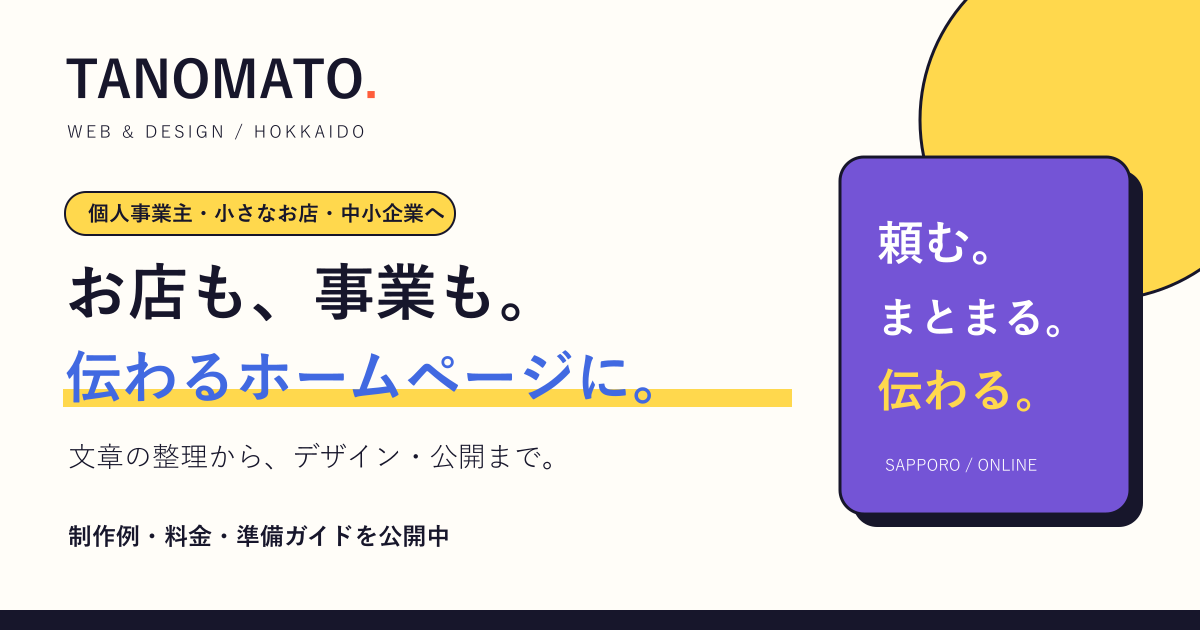
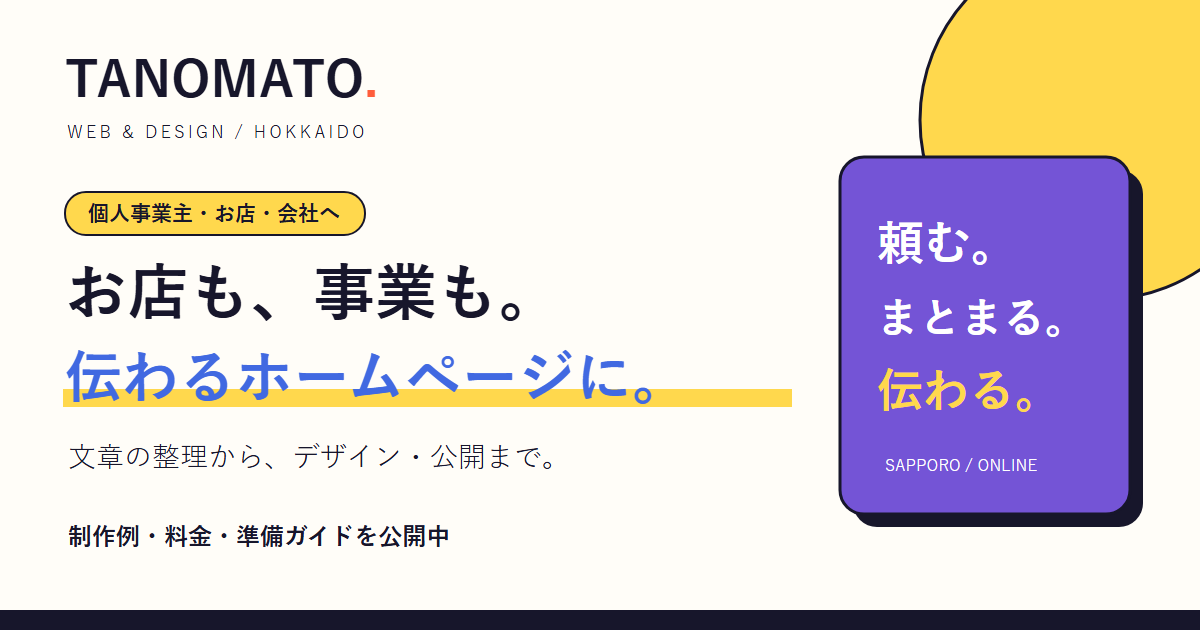
「小さなお店」「小さな事業」の言い方をやめる
トップ・わたしたちについて・全ページのリンク共有画像（ogp）の説明文を
「お店と会社」「個人事業主・お店・会社」に変える。問い合わせの業種の
受け付け値も「企業・個人事業」にそろえる（企業向けページのリンクと一致）。

diff --git a/index.html b/index.html
@@ -13,7 +13,7 @@
 <link rel="canonical" href="https://tanomato.com/">
 <meta property="og:type" content="website"><meta property="og:site_name" content="TANOMATO"><meta property="og:locale" content="ja_JP">
 <meta property="og:title" content="個人事業主と中小企業専門のWeb制作｜TANOMATO（たのまと）"><meta property="og:description" content="TANOMATO（たのまと・タノマト）。札幌発・全国対応、個人事業主と中小企業専門のWeb制作。先着5件の価格は1ページ29,800円、6件目からは49,800円。公開後の月額サポートも選べます。"><meta property="og:url" content="https://tanomato.com/">
-<meta property="og:image" content="https://tanomato.com/assets/ogp.png"><meta property="og:image:width" content="1200"><meta property="og:image:height" content="630"><meta property="og:image:alt" content="TANOMATO 個人事業主・小さなお店のホームページ制作"><meta name="twitter:card" content="summary_large_image">
+<meta property="og:image" content="https://tanomato.com/assets/ogp.png"><meta property="og:image:width" content="1200"><meta property="og:image:height" content="630"><meta property="og:image:alt" content="TANOMATO 個人事業主・お店・会社のホームページ制作"><meta name="twitter:card" content="summary_large_image">
 <link rel="stylesheet" href="consent.css"><link rel="stylesheet" href="motion.css"><script>(function(d){try{if(matchMedia("(prefers-reduced-motion: reduce)").matches)return;var c=d.documentElement.classList,s=sessionStorage,t=+s.getItem("tanomato.veil");if(t&&Date.now()-t<4000)c.add("is-arriving");else if(!s.getItem("tanomato.booted"))c.add("is-booting")}catch(e){}})(document)</script><script type="application/ld+json">{"@context":"https://schema.org","@graph":[{"@type":"Organization","@id":"https://tanomato.com/#organization","name":"TANOMATO","alternateName":["たのまと","タノマト","TANOMATO（たのまと）"],"url":"https://tanomato.com/","email":"contact@tanomato.com","image":"https://tanomato.com/assets/ogp.png","description":"札幌を拠点に、個人事業主と中小企業のホームページを制作しています。","areaServed":{"@type":"Country","name":"日本"}},{"@type":"WebSite","@id":"https://tanomato.com/#website","name":"TANOMATO（たのまと）","alternateName":["たのまと","タノマト","TANOMATO","たのまと ホームページ制作"],"url":"https://tanomato.com/","inLanguage":"ja","publisher":{"@id":"https://tanomato.com/#organization"}}]}</script>
 </head>
 <body><a class="skip" href="#main">本文へ</a>
@@ -25,10 +25,10 @@
 </header>
 <main id="main">
 <section class="studio-hero wrap growth-hero">
-<div><p class="hero-chip">札幌発・全国オンライン対応</p><p class="eyebrow">小さな事業のためのホームページ制作</p>
+<div><p class="hero-chip">札幌発・全国オンライン対応</p><p class="eyebrow">お店と会社のためのホームページ制作</p>
 <h1>お店も、事業も<br><em>伝わるホームページに</em></h1>
 <p class="fine">TANOMATO（たのまと・タノマト）</p>
-<p class="lead">個人事業主・小さなお店・中小企業のために。<br>文章の整理からデザイン、公開までまとめてお手伝いします。</p>
+<p class="lead">個人事業主・お店・会社のために。<br>文章の整理からデザイン、公開までまとめてお手伝いします。</p>
 <p class="hero-price"><strong>店舗紹介サイト 29,800円<small>（税込）</small></strong><span>先着5件の価格／6件目からは49,800円（税込）</span></p>
 <p class="hero-scope">載せる話題5つ・写真5枚・修正2回・公開設定まで含みます。外部サービス費は別途実費です。</p>
 <div class="actions"><a class="button" href="#featured-works" data-track="works_click">制作例と料金を見る <span aria-hidden="true">↘</span></a><a class="button outline" href="contact.html" data-track="contact_click">無料で相談する</a></div>

diff --git a/about.html b/about.html
@@ -13,7 +13,7 @@
 <link rel="canonical" href="https://tanomato.com/about.html">
 <meta property="og:type" content="website"><meta property="og:site_name" content="TANOMATO"><meta property="og:locale" content="ja_JP">
 <meta property="og:title" content="TANOMATOについて｜TANOMATO"><meta property="og:description" content="TANOMATOがWeb制作を行う理由、お客さまへの約束、料金と制作範囲、代表者とAIによる制作体制をご案内します。"><meta property="og:url" content="https://tanomato.com/about.html">
-<meta property="og:image" content="https://tanomato.com/assets/ogp.png"><meta property="og:image:width" content="1200"><meta property="og:image:height" content="630"><meta property="og:image:alt" content="TANOMATO 個人事業主・小さなお店のホームページ制作"><meta name="twitter:card" content="summary_large_image">
+<meta property="og:image" content="https://tanomato.com/assets/ogp.png"><meta property="og:image:width" content="1200"><meta property="og:image:height" content="630"><meta property="og:image:alt" content="TANOMATO 個人事業主・お店・会社のホームページ制作"><meta name="twitter:card" content="summary_large_image">
 <link rel="stylesheet" href="consent.css"><link rel="stylesheet" href="motion.css"><script>(function(d){try{if(matchMedia("(prefers-reduced-motion: reduce)").matches)return;var c=d.documentElement.classList,s=sessionStorage,t=+s.getItem("tanomato.veil");if(t&&Date.now()-t<4000)c.add("is-arriving");else if(!s.getItem("tanomato.booted"))c.add("is-booting")}catch(e){}})(document)</script></head>
 <body><a class="skip" href="#main">本文へ</a>
 <header class="site-header"><a class="brand" href="index.html"><span>TANOMATO<span class="brand-dot">.</span></span><small>WEB &amp; DESIGN / HOKKAIDO</small></a>
@@ -26,7 +26,7 @@
 <section class="page-head wrap">
 <p class="eyebrow">ABOUT TANOMATO</p>
 <h1>頼みを、まとめる</h1>
-<p class="lead">札幌を拠点に、全国オンラインで対応する、小さな事業のためのWeb制作。</p>
+<p class="lead">札幌を拠点に、全国オンラインで対応する、お店と会社のためのWeb制作。</p>
 </section>
 <section class="wrap editorial">
 <div class="section-heading">

diff --git a/case-piano.html b/case-piano.html
@@ -6,7 +6,7 @@
 <link rel="canonical" href="https://tanomato.com/case-piano.html">
 <meta property="og:type" content="website"><meta property="og:site_name" content="TANOMATO"><meta property="og:locale" content="ja_JP">
 <meta property="og:title" content="ピアノ教室の案内の制作解説｜TANOMATO"><meta property="og:description" content="通う前に知りたい時間割・月謝・体験の流れを、1ページで。ピアノ教室の架空の制作例の工夫と、習い事の教室サイトを依頼する際の費用をご紹介します。"><meta property="og:url" content="https://tanomato.com/case-piano.html">
-<meta property="og:image" content="https://tanomato.com/assets/ogp.png"><meta property="og:image:width" content="1200"><meta property="og:image:height" content="630"><meta property="og:image:alt" content="TANOMATO 個人事業主・小さなお店のホームページ制作"><meta name="twitter:card" content="summary_large_image">
+<meta property="og:image" content="https://tanomato.com/assets/ogp.png"><meta property="og:image:width" content="1200"><meta property="og:image:height" content="630"><meta property="og:image:alt" content="TANOMATO 個人事業主・お店・会社のホームページ制作"><meta name="twitter:card" content="summary_large_image">
 <link rel="stylesheet" href="consent.css"><link rel="stylesheet" href="motion.css"><script>(function(d){try{if(matchMedia("(prefers-reduced-motion: reduce)").matches)return;var c=d.documentElement.classList,s=sessionStorage,t=+s.getItem("tanomato.veil");if(t&&Date.now()-t<4000)c.add("is-arriving");else if(!s.getItem("tanomato.booted"))c.add("is-booting")}catch(e){}})(document)</script></head>
 <body class="case-piano-page"><a class="skip" href="#main">本文へ</a>
 <header class="site-header"><a class="brand" href="index.html"><span>TANOMATO<span class="brand-dot">.</span></span><small>WEB &amp; DESIGN / HOKKAIDO</small></a>

diff --git a/case-event.html b/case-event.html
@@ -6,7 +6,7 @@
 <link rel="canonical" href="https://tanomato.com/case-event.html">
 <meta property="og:type" content="website"><meta property="og:site_name" content="TANOMATO"><meta property="og:locale" content="ja_JP">
 <meta property="og:title" content="相談会・見学会の案内の制作解説｜TANOMATO"><meta property="og:description" content="内容、対象、日時、参加方法を順番に理解できるように。構成の工夫と、同様の制作を依頼する際の費用・条件をご紹介します。"><meta property="og:url" content="https://tanomato.com/case-event.html">
-<meta property="og:image" content="https://tanomato.com/assets/ogp.png"><meta property="og:image:width" content="1200"><meta property="og:image:height" content="630"><meta property="og:image:alt" content="TANOMATO 個人事業主・小さなお店のホームページ制作"><meta name="twitter:card" content="summary_large_image">
+<meta property="og:image" content="https://tanomato.com/assets/ogp.png"><meta property="og:image:width" content="1200"><meta property="og:image:height" content="630"><meta property="og:image:alt" content="TANOMATO 個人事業主・お店・会社のホームページ制作"><meta name="twitter:card" content="summary_large_image">
 <link rel="stylesheet" href="consent.css"><link rel="stylesheet" href="motion.css"><script>(function(d){try{if(matchMedia("(prefers-reduced-motion: reduce)").matches)return;var c=d.documentElement.classList,s=sessionStorage,t=+s.getItem("tanomato.veil");if(t&&Date.now()-t<4000)c.add("is-arriving");else if(!s.getItem("tanomato.booted"))c.add("is-booting")}catch(e){}})(document)</script></head>
 <body class="case-event-page"><a class="skip" href="#main">本文へ</a>
 <header class="site-header"><a class="brand" href="index.html"><span>TANOMATO<span class="brand-dot">.</span></span><small>WEB &amp; DESIGN / HOKKAIDO</small></a>

diff --git a/case-company.html b/case-company.html
@@ -6,7 +6,7 @@
 <link rel="canonical" href="https://tanomato.com/case-company.html">
 <meta property="og:type" content="website"><meta property="og:site_name" content="TANOMATO"><meta property="og:locale" content="ja_JP">
 <meta property="og:title" content="会社と事業の紹介の制作解説｜TANOMATO"><meta property="og:description" content="会社の全体像から、事業の詳細へ自然に進めるように。構成の工夫と、同様の制作を依頼する際の費用・条件をご紹介します。"><meta property="og:url" content="https://tanomato.com/case-company.html">
-<meta property="og:image" content="https://tanomato.com/assets/ogp.png"><meta property="og:image:width" content="1200"><meta property="og:image:height" content="630"><meta property="og:image:alt" content="TANOMATO 個人事業主・小さなお店のホームページ制作"><meta name="twitter:card" content="summary_large_image">
+<meta property="og:image" content="https://tanomato.com/assets/ogp.png"><meta property="og:image:width" content="1200"><meta property="og:image:height" content="630"><meta property="og:image:alt" content="TANOMATO 個人事業主・お店・会社のホームページ制作"><meta name="twitter:card" content="summary_large_image">
 <link rel="stylesheet" href="consent.css"><link rel="stylesheet" href="motion.css"><script>(function(d){try{if(matchMedia("(prefers-reduced-motion: reduce)").matches)return;var c=d.documentElement.classList,s=sessionStorage,t=+s.getItem("tanomato.veil");if(t&&Date.now()-t<4000)c.add("is-arriving");else if(!s.getItem("tanomato.booted"))c.add("is-booting")}catch(e){}})(document)</script></head>
 <body class="case-company-page"><a class="skip" href="#main">本文へ</a>
 <header class="site-header"><a class="brand" href="index.html"><span>TANOMATO<span class="brand-dot">.</span></span><small>WEB &amp; DESIGN / HOKKAIDO</small></a>

diff --git a/case-cafe.html b/case-cafe.html
@@ -6,7 +6,7 @@
 <link rel="canonical" href="https://tanomato.com/case-cafe.html">
 <meta property="og:type" content="website"><meta property="og:site_name" content="TANOMATO"><meta property="og:locale" content="ja_JP">
 <meta property="og:title" content="カフェの店舗案内の制作解説｜TANOMATO"><meta property="og:description" content="営業時間やメニューを、来店前に迷わず確認できるように。構成の工夫と、同様の制作を依頼する際の費用・条件をご紹介します。"><meta property="og:url" content="https://tanomato.com/case-cafe.html">
-<meta property="og:image" content="https://tanomato.com/assets/ogp.png"><meta property="og:image:width" content="1200"><meta property="og:image:height" content="630"><meta property="og:image:alt" content="TANOMATO 個人事業主・小さなお店のホームページ制作"><meta name="twitter:card" content="summary_large_image">
+<meta property="og:image" content="https://tanomato.com/assets/ogp.png"><meta property="og:image:width" content="1200"><meta property="og:image:height" content="630"><meta property="og:image:alt" content="TANOMATO 個人事業主・お店・会社のホームページ制作"><meta name="twitter:card" content="summary_large_image">
 <link rel="stylesheet" href="consent.css"><link rel="stylesheet" href="motion.css"><script>(function(d){try{if(matchMedia("(prefers-reduced-motion: reduce)").matches)return;var c=d.documentElement.classList,s=sessionStorage,t=+s.getItem("tanomato.veil");if(t&&Date.now()-t<4000)c.add("is-arriving");else if(!s.getItem("tanomato.booted"))c.add("is-booting")}catch(e){}})(document)</script></head>
 <body><a class="skip" href="#main">本文へ</a>
 <header class="site-header"><a class="brand" href="index.html"><span>TANOMATO<span class="brand-dot">.</span></span><small>WEB &amp; DESIGN / HOKKAIDO</small></a>

diff --git a/case-design.html b/case-design.html
@@ -6,7 +6,7 @@
 <link rel="canonical" href="https://tanomato.com/case-design.html">
 <meta property="og:type" content="website"><meta property="og:site_name" content="TANOMATO"><meta property="og:locale" content="ja_JP">
 <meta property="og:title" content="部分修正とデザインの制作解説｜TANOMATO"><meta property="og:description" content="必要なところを直して、探したい情報へ進みやすく。構成の工夫と、同様の制作を依頼する際の費用・条件をご紹介します。"><meta property="og:url" content="https://tanomato.com/case-design.html">
-<meta property="og:image" content="https://tanomato.com/assets/ogp.png"><meta property="og:image:width" content="1200"><meta property="og:image:height" content="630"><meta property="og:image:alt" content="TANOMATO 個人事業主・小さなお店のホームページ制作"><meta name="twitter:card" content="summary_large_image">
+<meta property="og:image" content="https://tanomato.com/assets/ogp.png"><meta property="og:image:width" content="1200"><meta property="og:image:height" content="630"><meta property="og:image:alt" content="TANOMATO 個人事業主・お店・会社のホームページ制作"><meta name="twitter:card" content="summary_large_image">
 <link rel="stylesheet" href="consent.css"><link rel="stylesheet" href="motion.css"><script>(function(d){try{if(matchMedia("(prefers-reduced-motion: reduce)").matches)return;var c=d.documentElement.classList,s=sessionStorage,t=+s.getItem("tanomato.veil");if(t&&Date.now()-t<4000)c.add("is-arriving");else if(!s.getItem("tanomato.booted"))c.add("is-booting")}catch(e){}})(document)</script></head>
 <body><a class="skip" href="#main">本文へ</a>
 <header class="site-header"><a class="brand" href="index.html"><span>TANOMATO<span class="brand-dot">.</span></span><small>WEB &amp; DESIGN / HOKKAIDO</small></a>

diff --git a/services.html b/services.html
@@ -13,7 +13,7 @@
 <link rel="canonical" href="https://tanomato.com/services.html">
 <meta property="og:type" content="website"><meta property="og:site_name" content="TANOMATO"><meta property="og:locale" content="ja_JP">
 <meta property="og:title" content="サービス｜TANOMATO"><meta property="og:description" content="TANOMATOが提供するWeb制作をご案内します。初めての店舗紹介サイトから企業サイト、LP、既存サイトの修正まで、必要な範囲を相談して決められます。"><meta property="og:url" content="https://tanomato.com/services.html">
-<meta property="og:image" content="https://tanomato.com/assets/ogp.png"><meta property="og:image:width" content="1200"><meta property="og:image:height" content="630"><meta property="og:image:alt" content="TANOMATO 個人事業主・小さなお店のホームページ制作"><meta name="twitter:card" content="summary_large_image">
+<meta property="og:image" content="https://tanomato.com/assets/ogp.png"><meta property="og:image:width" content="1200"><meta property="og:image:height" content="630"><meta property="og:image:alt" content="TANOMATO 個人事業主・お店・会社のホームページ制作"><meta name="twitter:card" content="summary_large_image">
 <link rel="stylesheet" href="consent.css"><link rel="stylesheet" href="motion.css"><script>(function(d){try{if(matchMedia("(prefers-reduced-motion: reduce)").matches)return;var c=d.documentElement.classList,s=sessionStorage,t=+s.getItem("tanomato.veil");if(t&&Date.now()-t<4000)c.add("is-arriving");else if(!s.getItem("tanomato.booted"))c.add("is-booting")}catch(e){}})(document)</script></head>
 <body><a class="skip" href="#main">本文へ</a>
 <header class="site-header"><a class="brand" href="index.html"><span>TANOMATO<span class="brand-dot">.</span></span><small>WEB &amp; DESIGN / HOKKAIDO</small></a>

diff --git a/privacy.html b/privacy.html
@@ -13,7 +13,7 @@
 <link rel="canonical" href="https://tanomato.com/privacy.html">
 <meta property="og:type" content="website"><meta property="og:site_name" content="TANOMATO"><meta property="og:locale" content="ja_JP">
 <meta property="og:title" content="利用規約と個人情報の取り扱い｜TANOMATO"><meta property="og:description" content="TANOMATOの利用規約、制作契約の基本方針、制作実績への掲載、AI利用方針、個人情報の取り扱い、事業者情報をご案内します。"><meta property="og:url" content="https://tanomato.com/privacy.html">
-<meta property="og:image" content="https://tanomato.com/assets/ogp.png"><meta property="og:image:width" content="1200"><meta property="og:image:height" content="630"><meta property="og:image:alt" content="TANOMATO 個人事業主・小さなお店のホームページ制作"><meta name="twitter:card" content="summary_large_image">
+<meta property="og:image" content="https://tanomato.com/assets/ogp.png"><meta property="og:image:width" content="1200"><meta property="og:image:height" content="630"><meta property="og:image:alt" content="TANOMATO 個人事業主・お店・会社のホームページ制作"><meta name="twitter:card" content="summary_large_image">
 <link rel="stylesheet" href="consent.css"><link rel="stylesheet" href="motion.css"><script>(function(d){try{if(matchMedia("(prefers-reduced-motion: reduce)").matches)return;var c=d.documentElement.classList,s=sessionStorage,t=+s.getItem("tanomato.veil");if(t&&Date.now()-t<4000)c.add("is-arriving");else if(!s.getItem("tanomato.booted"))c.add("is-booting")}catch(e){}})(document)</script></head>
 <body><a class="skip" href="#main">本文へ</a>
 <header class="site-header"><a class="brand" href="index.html"><span>TANOMATO<span class="brand-dot">.</span></span><small>WEB &amp; DESIGN / HOKKAIDO</small></a>

diff --git a/for-business.html b/for-business.html
@@ -6,7 +6,7 @@
 <link rel="canonical" href="https://tanomato.com/for-business.html">
 <meta property="og:type" content="website"><meta property="og:site_name" content="TANOMATO"><meta property="og:locale" content="ja_JP">
 <meta property="og:title" content="企業・個人事業のホームページ制作｜TANOMATO"><meta property="og:description" content="企業・個人事業のホームページ制作。必要な掲載内容、制作例、料金と依頼前の疑問をまとめて確認できます。"><meta property="og:url" content="https://tanomato.com/for-business.html">
-<meta property="og:image" content="https://tanomato.com/assets/ogp.png"><meta property="og:image:width" content="1200"><meta property="og:image:height" content="630"><meta property="og:image:alt" content="TANOMATO 個人事業主・小さなお店のホームページ制作"><meta name="twitter:card" content="summary_large_image">
+<meta property="og:image" content="https://tanomato.com/assets/ogp.png"><meta property="og:image:width" content="1200"><meta property="og:image:height" content="630"><meta property="og:image:alt" content="TANOMATO 個人事業主・お店・会社のホームページ制作"><meta name="twitter:card" content="summary_large_image">
 <link rel="stylesheet" href="consent.css"><link rel="stylesheet" href="motion.css"><script>(function(d){try{if(matchMedia("(prefers-reduced-motion: reduce)").matches)return;var c=d.documentElement.classList,s=sessionStorage,t=+s.getItem("tanomato.veil");if(t&&Date.now()-t<4000)c.add("is-arriving");else if(!s.getItem("tanomato.booted"))c.add("is-booting")}catch(e){}})(document)</script></head>
 <body><a class="skip" href="#main">本文へ</a>
 <header class="site-header"><a class="brand" href="index.html"><span>TANOMATO<span class="brand-dot">.</span></span><small>WEB &amp; DESIGN / HOKKAIDO</small></a>

diff --git a/404.html b/404.html
@@ -6,7 +6,7 @@
 <meta name="robots" content="noindex"><link rel="canonical" href="https://tanomato.com/404.html">
 <meta property="og:type" content="website"><meta property="og:site_name" content="TANOMATO"><meta property="og:locale" content="ja_JP">
 <meta property="og:title" content="ページが見つかりません｜TANOMATO"><meta property="og:description" content="お探しのページが見つかりません。TANOMATOのトップページ、サービス、制作例、無料相談をご案内します。"><meta property="og:url" content="https://tanomato.com/404.html">
-<meta property="og:image" content="https://tanomato.com/assets/ogp.png"><meta property="og:image:width" content="1200"><meta property="og:image:height" content="630"><meta property="og:image:alt" content="TANOMATO 個人事業主・小さなお店のホームページ制作"><meta name="twitter:card" content="summary_large_image">
+<meta property="og:image" content="https://tanomato.com/assets/ogp.png"><meta property="og:image:width" content="1200"><meta property="og:image:height" content="630"><meta property="og:image:alt" content="TANOMATO 個人事業主・お店・会社のホームページ制作"><meta name="twitter:card" content="summary_large_image">
 <link rel="stylesheet" href="consent.css"><link rel="stylesheet" href="motion.css"><script>(function(d){try{if(matchMedia("(prefers-reduced-motion: reduce)").matches)return;var c=d.documentElement.classList,s=sessionStorage,t=+s.getItem("tanomato.veil");if(t&&Date.now()-t<4000)c.add("is-arriving");else if(!s.getItem("tanomato.booted"))c.add("is-booting")}catch(e){}})(document)</script></head>
 <body><a class="skip" href="#main">本文へ</a>
 <header class="site-header"><a class="brand" href="index.html"><span>TANOMATO<span class="brand-dot">.</span></span><small>WEB &amp; DESIGN / HOKKAIDO</small></a>

diff --git a/for-cafes.html b/for-cafes.html
@@ -6,7 +6,7 @@
 <link rel="canonical" href="https://tanomato.com/for-cafes.html">
 <meta property="og:type" content="website"><meta property="og:site_name" content="TANOMATO"><meta property="og:locale" content="ja_JP">
 <meta property="og:title" content="カフェ・飲食店のホームページ制作｜TANOMATO"><meta property="og:description" content="カフェ・飲食店のホームページ制作。必要な掲載内容、制作例、料金と依頼前の疑問をまとめて確認できます。"><meta property="og:url" content="https://tanomato.com/for-cafes.html">
-<meta property="og:image" content="https://tanomato.com/assets/ogp.png"><meta property="og:image:width" content="1200"><meta property="og:image:height" content="630"><meta property="og:image:alt" content="TANOMATO 個人事業主・小さなお店のホームページ制作"><meta name="twitter:card" content="summary_large_image">
+<meta property="og:image" content="https://tanomato.com/assets/ogp.png"><meta property="og:image:width" content="1200"><meta property="og:image:height" content="630"><meta property="og:image:alt" content="TANOMATO 個人事業主・お店・会社のホームページ制作"><meta name="twitter:card" content="summary_large_image">
 <link rel="stylesheet" href="consent.css"><link rel="stylesheet" href="motion.css"><script>(function(d){try{if(matchMedia("(prefers-reduced-motion: reduce)").matches)return;var c=d.documentElement.classList,s=sessionStorage,t=+s.getItem("tanomato.veil");if(t&&Date.now()-t<4000)c.add("is-arriving");else if(!s.getItem("tanomato.booted"))c.add("is-booting")}catch(e){}})(document)</script></head>
 <body><a class="skip" href="#main">本文へ</a>
 <header class="site-header"><a class="brand" href="index.html"><span>TANOMATO<span class="brand-dot">.</span></span><small>WEB &amp; DESIGN / HOKKAIDO</small></a>
